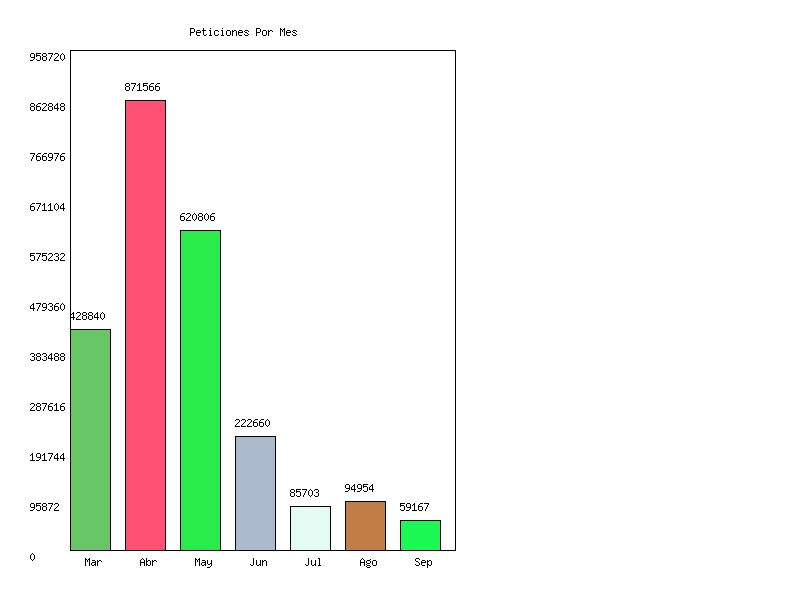
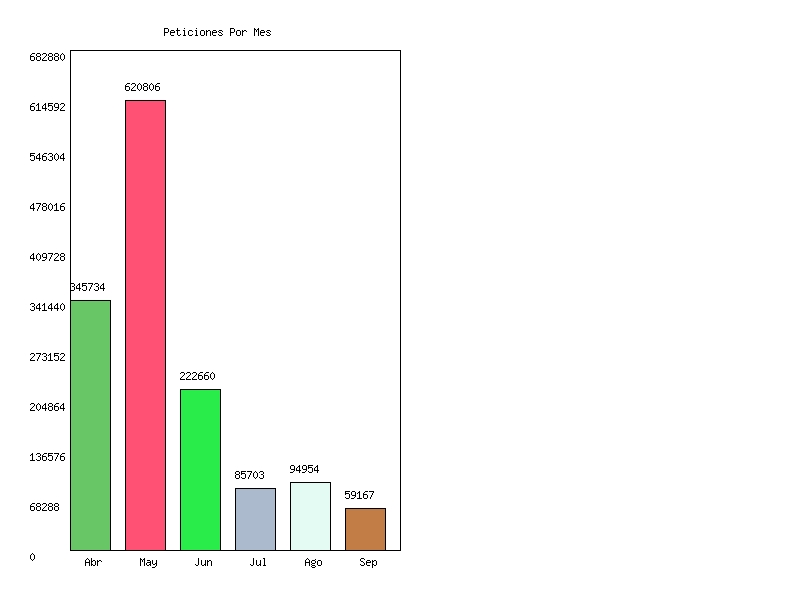
Listas las opciones -g -t y -v

diff --git a/Tarea01-2S.cpp b/Tarea01-2S.cpp
@@ -33,13 +33,14 @@ void opciong(char *fecha_inicio, char *fecha_termino){
 
         long cantpetpormes[12]; //arreglo que almacena la cant de peticiones por mes
         int i,j,tuplas, campos;   // tuplas=filas, campos=columanas 
+        char sql[513];
         
         printf("\nConectando a servidor...");
         
         PGconn *conn = NULL; //Struct de estado de coneccion
-        PGresult *res = NULL; //Puntero a tabla dinamica con los datos solic 
-                              //de a la BD
-        const char *host = "146.83.181.4"; //Las cadenas const char puede ser  
+        PGresult *res = NULL; //Puntero a tabla dinamica con los datos solic de la BD
+                              
+        const char *host = "146.83.181.4";  //Las cadenas const char puede ser  
         const char *port = "6432";         //asinados con "=", las char no
         const char *dataBase = "iswdb";
         const char *user = "estisw";
@@ -48,59 +49,86 @@ void opciong(char *fecha_inicio, char *fecha_termino){
         conn = PQsetdbLogin(host, port, NULL, NULL, dataBase, user, passwd);
         
         if (PQstatus(conn) != CONNECTION_BAD){       //Si la coneccion es exitosa...
-            res = PQexec(conn,"select EXTRACT(MONTH FROM fecha) AS mes, count(peticion) as cant_pet FROM isw.accesos where fecha BETWEEN '2014-03-01 00:00:00' AND '2014-11-30 23:59:59' group by mes ORDER BY mes;");
+            memset(sql, 0, sizeof (sql));
+            snprintf(sql, 512, "select EXTRACT(MONTH FROM fecha) AS mes, count(peticion) as cant_pet FROM isw.accesos where fecha BETWEEN '%s 00:00:00' AND '%s 23:59:59' group by mes ORDER BY mes;", fecha_inicio,fecha_termino);
+            res = PQexec(conn, sql);
+                    
             printf(" Coneccion exitosa.\n");
             
             tuplas = PQntuples(res);
             campos = PQnfields(res);   // =>Columnas
-            /*
-            printf("el número de campos (columnas) es: %d\n", PQnfields(res));
-            printf("el número de filas es: %d\n", PQntuples(res));
             
-            printf("\nPeticiones:\n");
-            printf("\n          mes        |  cantidad ($)");
-            printf("\n---------------------+-------------\n");
-            */
             //Se inicializa arreglo, valores menor a 0 equivalen a NULL en graficobarras()
             for (i=0; i<12; i++) 
                 cantpetpormes[i] = -2;
             //Copia el resultado de la consulta al arreglo
             for (i=0; i<tuplas; i++) {         
                 cantpetpormes[atoi(PQgetvalue(res,i,0))-1] = atol(PQgetvalue(res,i,1));
-                /*for (j=0; j<campos; j++) {
+                
+                for (j=0; j<campos; j++) {
                     printf(" %s ", PQgetvalue(res,i,j));
                     if (j==0){                         //No repetir linea vertical
                          printf("|");         //Linea vertical de la tabla
                     }
                 }
-                printf("\n"); */
+                printf("\n"); 
+                
              }
+            graficobarras(cantpetpormes); 
+            printf("\nEl grafico de barras ha sido guardado como grafico.jpg en el directorio actual\n");
         }else
             printf("\nError: Ha ocurrido un problema en la coneccion\n");
-        /*for (i=0; i<12; i++) 
-                printf("\ncantpetpormes[%d]: %ld",i,cantpetpormes[i]);*/
-        graficobarras(cantpetpormes);  
+    
 }
+
 void opciont(char *fecha_inicio, char *fecha_termino){ 
-        int i;
-        long cantpetpormes[12]; //arreglo que almacena la cant de peticiones por mes
-        for (i = 0; i < 6; i++){   //rellenando con datos solo para probar grafico
-            cantpetpormes[i] = 1000;
-        }
-        for (i = 6; i < 12; i++){   //rellenando con datos solo para probar grafico
-            cantpetpormes[i] = 1500;
-        }
-        cantpetpormes[0] = -12;  //rellenando con datos solo para probar grafico
-        cantpetpormes[1] = -12;  //rellenando con datos solo para probar grafico
-        cantpetpormes[11] = -12; //rellenando con datos solo para probar grafico
-        graficotorta(cantpetpormes);  
+
+        long petporestado[100]; //arreglo que almacena la cant de peticiones por mes
+        int estado[100];
+        int i,j,tuplas, campos;   // tuplas=filas, campos=columanas 
+        char sql[513];
+        
+        printf("\nConectando a servidor...");
+        
+        PGconn *conn = NULL; //Struct de estado de coneccion
+        PGresult *res = NULL; //Puntero a tabla dinamica con los datos solic de la BD
+                              
+        const char *host = "146.83.181.4";  //Las cadenas const char puede ser  
+        const char *port = "6432";         //asinados con "=", las char no
+        const char *dataBase = "iswdb";
+        const char *user = "estisw";
+        const char *passwd = "estisw";
+       
+        conn = PQsetdbLogin(host, port, NULL, NULL, dataBase, user, passwd);
+        
+        if (PQstatus(conn) != CONNECTION_BAD){       //Si la coneccion es exitosa...
+            memset(sql, 0, sizeof (sql));
+            snprintf(sql, 512, "select count(peticion) as cant_pet, estado FROM isw.accesos where fecha BETWEEN '%s 00:00:00' AND '%s 23:59:59'group by estado ORDER BY cant_pet limit 5;", fecha_inicio, fecha_termino);
+            res = PQexec(conn, sql);
+                    
+            printf(" Coneccion exitosa.\n");
+            
+            tuplas = PQntuples(res);
+            campos = PQnfields(res);   // =>Columnas
+      
+            //Copia el resultado de la consulta a los arreglos
+            for (i=0; i<tuplas; i++) {         
+                petporestado[i] = atol(PQgetvalue(res,i,0));
+                estado[i] = atoi(PQgetvalue(res,i,1));   
+             }
+            
+            graficotorta(tuplas, petporestado, estado); 
+            printf("\nEl grafico de torta ha sido guardado como graficot.jpg en el directorio actual\n");
+        }else
+            printf("\nError: Ha ocurrido un problema en la coneccion\n");    
 }
+
 int main(int argc, char** argv) {
     if (argc==4){
         if (strcmp(argv[1],"-g")==0)
             opciong(argv[2],argv[3]); // Grafico de barras
         else
-        if (strcmp(argv[1],"-t")==0) 
+        if (strcmp(argv[1],"-t")==0)
             opciont(argv[2],argv[3]); // Grafico de torta
         else
         if (strcmp(argv[1],"-a")==0) 

diff --git a/graficadortorta.c b/graficadortorta.c
@@ -3,92 +3,81 @@
 #include "gdfonts.h"
 #include <stdio.h>
 #include <string.h>
+#include <math.h>
 #include "grafico.h"
 #include "utils.h"
 
-/*
- IMG_HEIGHT: 600
-IMG_WIDTH: 800
-BORDE_ALTO: 50
-BORDE_ANCHO: 70
+#define PI 3.14159265
 
- */
+char* intStr(int num) {
+    char* texto = NULL;
+    texto = (char *) calloc(65, sizeof (char *));
+    snprintf(texto, 32, "%d", num);
+    return texto;
+}
 
-void graficotorta(long peticiones[]) {
-    //int color_aleatoreo();
+int color_aleatoreo2() {
+    return rand() % 256;
+}
+void graficotorta(int n, long cantidad[], int estado[]) {
+
     gdImagePtr imagen;
     FILE *archivo;
     char titulo[513];
+    char etiqueta[512];
     int blanco, negro, color;
     gdFontPtr fuente = gdFontGetSmall();
     
     imagen = gdImageCreateTrueColor(IMG_WIDTH, IMG_HEIGHT);
 
-    int y = 0;
-    int mes = 0;
-    int alto = 50;
-    int ancho = 70;
-    int encoger = 0;
-    long maximo = 0;
-    long paso = 0;
-    double porcentaje = 0.0;
+    int i;
+    int angEtiqueta, xEtiqueta, yEtiqueta;
+    float eqgrados;
+    int iniciotrozo, fintrozo;
+    long suma = 0;
+    
+    for (i=0; i<n; i++) {    
+        suma = suma + cantidad[i];
+    }
+    eqgrados = 360.0/suma;
     
     if (imagen) {
         blanco = gdImageColorAllocate(imagen, 255, 255, 255);
         negro = gdImageColorAllocate(imagen, 0, 0, 0);
-
-
         // Pintamos el fondo Blanco
         gdImageFill(imagen, 0, 0, blanco);
-        //Pintamos fondo del circulo
-        gdImageFilledArc(imagen, 400, 300, 400, 400, 0, 250, color_aleatoreo(), gdArc);
+        iniciotrozo = 0;
+        for (i=0; i<n; i++) {
+            fintrozo = (int) iniciotrozo+cantidad[i]*eqgrados;
+            angEtiqueta = (iniciotrozo + fintrozo) / 2;
+            xEtiqueta = cos(angEtiqueta*PI/180) * 220 + 400;
+            yEtiqueta = sin(angEtiqueta*PI/180) * 220 + 290;
+            // Color
+            color = gdImageColorAllocate(imagen, color_aleatoreo(), color_aleatoreo(), color_aleatoreo());
+            //Pintamos fondo el trozo
+            gdImageFilledArc(imagen, 400, 300, 400, 400, iniciotrozo, fintrozo, color, gdArc);       
+            //Etiqueta de peticion
+            memset(etiqueta, 0, 513);
+            snprintf(etiqueta, 512, "peticion %s",intStr(estado[i]));
+            gdImageString(imagen, fuente, xEtiqueta-25, yEtiqueta, (unsigned char *) etiqueta, negro);
+             //Etiqueta de porcentaje
+            memset(etiqueta, 0, 513);
+            snprintf(etiqueta, 512, "%s%%",longStr(cantidad[i]*100/suma));
+            gdImageString(imagen, fuente, xEtiqueta, yEtiqueta+15, (unsigned char *) etiqueta, negro);
+            iniciotrozo = (int) iniciotrozo+cantidad[i]*eqgrados;
+        }
+
         //Pintamos borde del circulo
         gdImageArc(imagen, 400, 300, 400, 400, 0, 360, negro);
-        
-        // Buscamos el máximo
-        for (mes = 0; mes < 12; mes++) {
-            // Busco el valor máximo, este me permitira calcular cuanto es el alto máximo
-            if (peticiones[mes] >= maximo) {
-                maximo = peticiones[mes];
-            }
-        }
-        maximo = maximo + (maximo/10); //Las etiquetas del costado llegan al 110% del maximo
- 
-        // Coloco la etiqueta al costado del gráfico
-       for (y = BORDE_ALTO; y <= (BORDE_ALTO + 500); y = y + 50) {
-            // Etiqueta
-            gdImageString(imagen, fuente, 30, IMG_HEIGHT - y, (unsigned char *) longStr(paso), negro);
-            paso += (maximo / 10);  //El maximo retoma su valor real
-        }
-       maximo = (maximo/11)*10;
-
-     /*  for (mes = 0; mes < 12; mes++) {
-           if (peticiones[mes]>=0){
-                // Color
-                color = gdImageColorAllocate(imagen, color_aleatoreo(), color_aleatoreo(), color_aleatoreo());
-                porcentaje = ((double) peticiones[mes] / maximo);
-                // El alto máximo serán 500px que será el 100%
-                alto = (int) (450 * porcentaje);
-                // Barra
-                gdImageFilledRectangle(imagen, ancho, IMG_HEIGHT - BORDE_ALTO, ancho + 40, IMG_HEIGHT - (BORDE_ALTO + alto), color);
-                // Borde Negro
-                gdImageRectangle(imagen, ancho, IMG_HEIGHT - BORDE_ALTO, ancho + 40, IMG_HEIGHT - (BORDE_ALTO + alto), negro);
-                // Etiqueta del Mes  
-                gdImageString(imagen, fuente, ancho + 15, IMG_HEIGHT - BORDE_ALTO + 5, (unsigned char *) etiquetaMes(mes), negro);
-                // Monto
-                gdImageString(imagen, fuente, ancho, IMG_HEIGHT - (BORDE_ALTO + alto + 20), (unsigned char *) longStr(peticiones[mes]), negro);
-                ancho += 55;
-           }else
-                encoger++;
-       }
-      */ 
-    
+        // Coloco el título
+        memset(titulo, 0, 513);
+        snprintf(titulo, 512, "Peticiones Por Estado");
+        gdImageString(imagen, fuente, (int) IMG_WIDTH * 0.4, 25, (unsigned char *) titulo, negro);
         // Pintamos Borde
         gdImageLine(imagen, BORDE_ANCHO, BORDE_ALTO, (IMG_WIDTH - BORDE_ANCHO), BORDE_ALTO, negro); //linea horiz superior
         gdImageLine(imagen, BORDE_ANCHO, (IMG_HEIGHT - BORDE_ALTO), (IMG_WIDTH - BORDE_ANCHO), (IMG_HEIGHT - BORDE_ALTO), negro); //linea horiz inferior
         gdImageLine(imagen, BORDE_ANCHO, BORDE_ALTO, BORDE_ANCHO, (IMG_HEIGHT - BORDE_ALTO), negro); //linea vertical izquierda
         gdImageLine(imagen, (IMG_WIDTH - BORDE_ANCHO), BORDE_ALTO, (IMG_WIDTH - BORDE_ANCHO), (IMG_HEIGHT - BORDE_ALTO), negro); //linea horiz derecha
-
         // Guardar imagen
         archivo = fopen("graficot.jpg", "wb");
         if (archivo != NULL) {

diff --git a/graficador.c b/graficador.c
@@ -2,6 +2,7 @@
 #include "gdfonts.h"
 #include <stdio.h>
 #include <string.h>
+#include <time.h>
 #include "grafico.h"
 #include "utils.h"
 

diff --git a/README.md b/README.md
@@ -17,7 +17,7 @@ Compilado en Linux Mint 16 (Petra) con g++
 
 Para compilar: 
 
-g++ '<directorio-donde-está-el-archivo-fuente>/Tarea00-2S.cpp' -o '<ruta-donde-quedará-el ejecutable>/<nombre-del-ejecutable>' -lgd
+g++ '<directorio-donde-está-el-archivo-fuente>/Tarea00-2S.cpp' -o '<ruta-donde-quedará-el ejecutable>/<nombre-del-ejecutable>' -lgd -lpq
 
 
 
